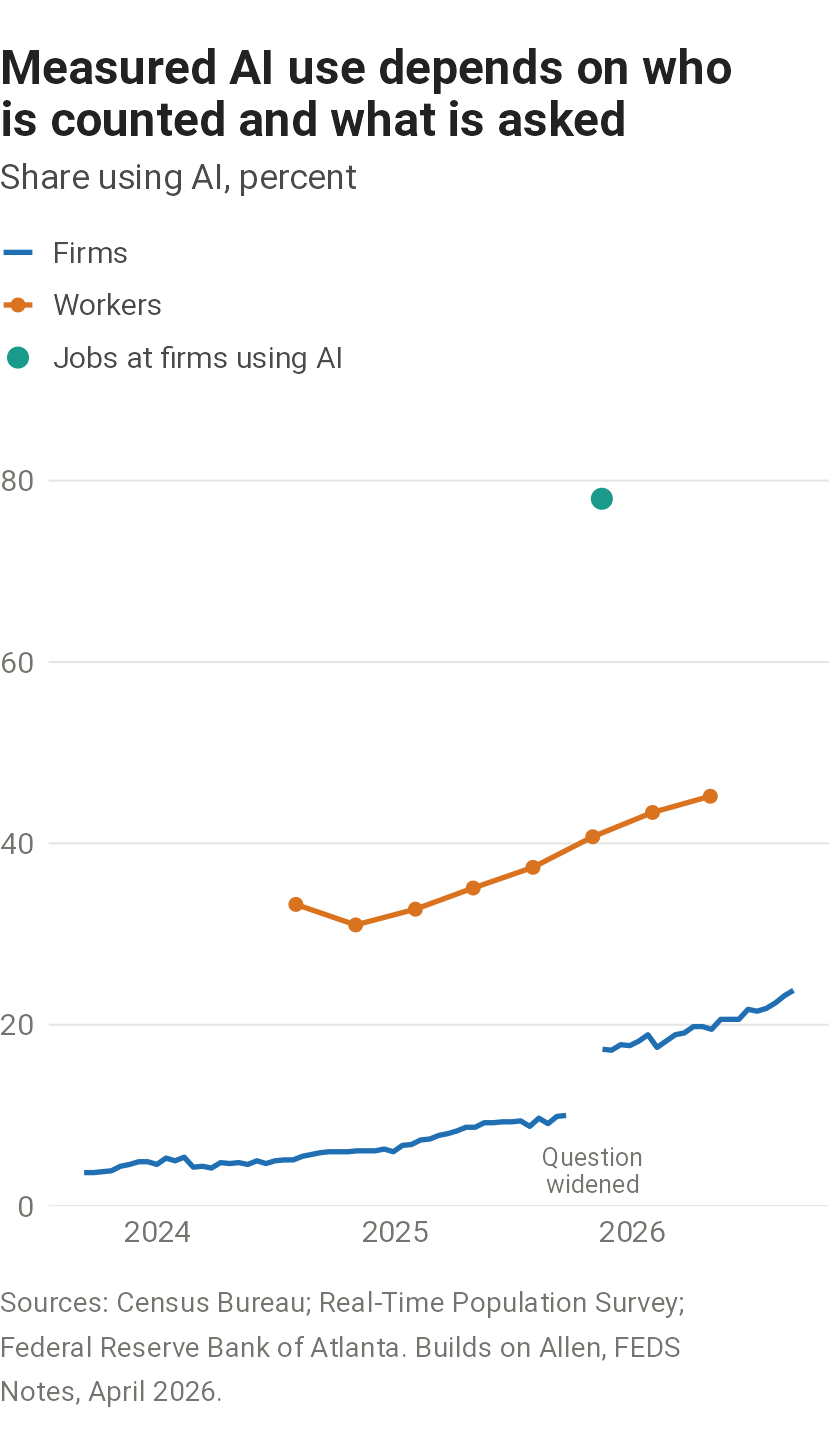
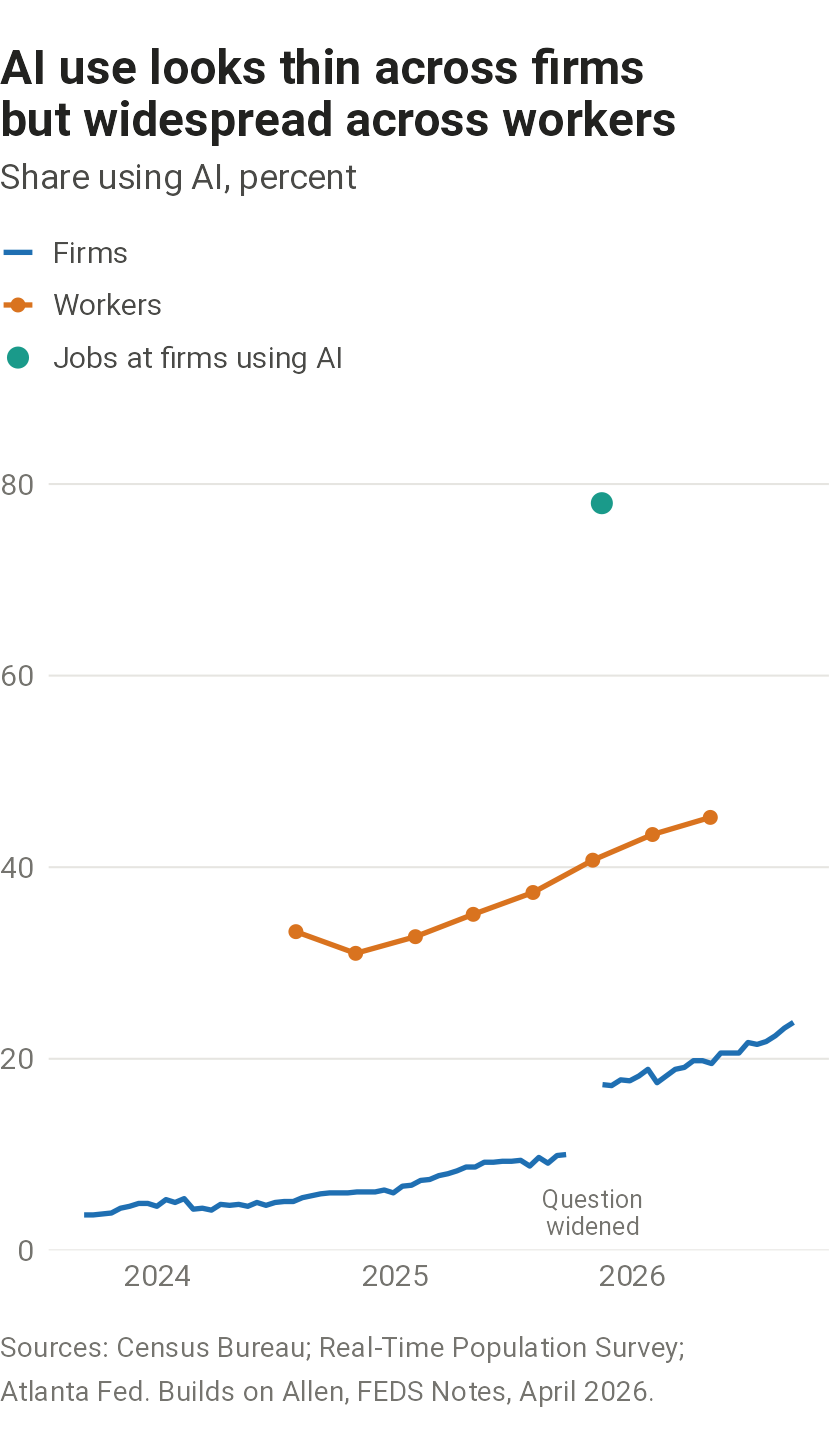
Retitle the adoption chart and lead its text with who is counted
Drops firm-size figures that aren't on the chart, keeping the point in
words and the figures in the spec. Shortens the source line to fit.

Claude-Session: https://claude.ai/code/session_01C4kQtTHdakDNHHerQuEFwM

diff --git a/charts/ai-adoption/spec.md b/charts/ai-adoption/spec.md
@@ -66,3 +66,4 @@ Tracker downloads: `https://www.genaiadoptiontracker.com/GenAI_All.csv`. The sit
 
 - 2026-09-26: Show firms (BTOS, both wordings), workers (RPS), and jobs at firms using AI (SBU, one point quoted from Allen). The employment-weighted BTOS line from CLAUDE.md is not built: it would be our own construction and cannot come close to the SBU figure.
 - 2026-09-26: Title: "Measured AI use depends on who is counted and what is asked." It names wording as well as the unit counted, following Bick and coauthors.
+- 2026-09-26: Title: "AI use looks thin across firms but widespread across workers." The text leads with who is counted and says the gap is mostly about firm size, without quoting size-class figures, which aren't on the chart. Evidence as of the September 2026 survey period: firms with 1 to 4 employees 24 percent, 5 to 49 employees 21 to 25 percent, 100 to 249 employees 34 percent, 250 or more 44 percent. Check on each refresh that the largest firms still lead by a wide margin. The size-class estimates are saved in the BTOS snapshot in `data/`.

diff --git a/charts/ai-adoption/output/ai-adoption-lead.md b/charts/ai-adoption/output/ai-adoption-lead.md
@@ -1,1 +1,1 @@
-AI use is spreading, but how widespread it looks depends on who is counted and what is asked. About 24 percent of firms used AI in September 2026, against 45 percent of workers in May 2026, and one survey puts 78 percent of jobs at firms that use it. Large firms lead: 44 percent of firms with 250 or more employees use it, against 24 percent of those with fewer than five. Wording matters too: when the Census Bureau broadened its question in November 2025, the firm share jumped from 10 to 17 percent.
+AI use is spreading, but how widespread it looks depends on who is counted. About 24 percent of firms use AI, while 45 percent of workers use generative AI for their jobs. The gap is mostly about size: most firms are small, and large firms, which employ far more workers, are much more likely to use AI. One survey puts 78 percent of jobs at firms that use it. How the question is asked matters too: when the Census Bureau broadened its question in November 2025, the firm share jumped from 10 to 17 percent.
